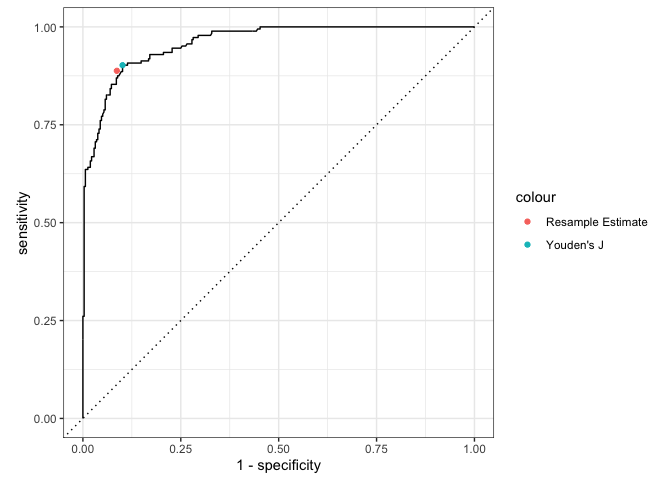
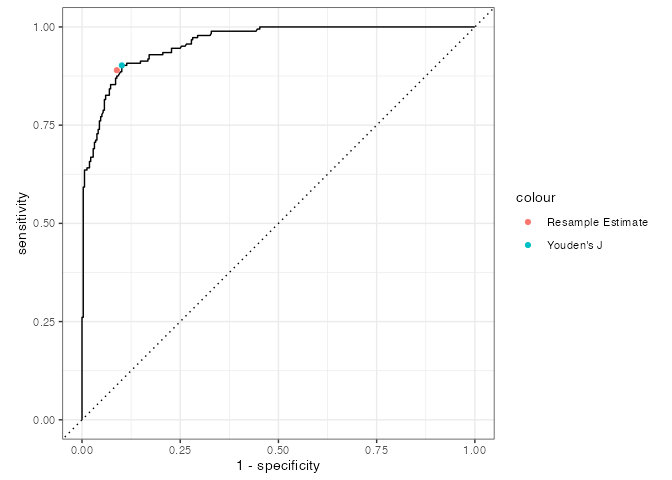
update readme

diff --git a/README.md b/README.md
@@ -1,7 +1,7 @@
 
 <!-- README.md is generated from README.Rmd. Please edit that file -->
 
-# thresholdr
+# thresholdr <a href="https://thresholdr.r-dcm.org"><img src="man/figures/logo.png" align="right" height="138" alt="thresholdr website" /></a>
 
 <!-- badges: start -->
 
@@ -38,8 +38,7 @@ threshold using `calc_youden()`:
 ``` r
 library(thresholdr)
 
-calc_youden(estimates = dcm_probs$att1$estimate,
-            truth = dcm_probs$att1$truth)
+calc_youden(estimates = dcm_probs$att1$estimate, truth = dcm_probs$att1$truth)
 #> [1] 0.3170266
 ```
 
@@ -49,10 +48,10 @@ using, for example, resampling:
 
 ``` r
 optimal_resample(estimates = dcm_probs$att1$estimate, optimal_method = "youden")
-#> # A tibble: 1 × 4
-#>   .threshold  sensitivity   specificity      j_index
-#>        <dbl>   <rvar[1d]>    <rvar[1d]>   <rvar[1d]>
-#> 1      0.381  0.89 ± 0.02  0.91 ± 0.012  0.8 ± 0.025
+#> # A tibble: 1 × 5
+#>   threshold   sensitivity   specificity      j_index        distance
+#>       <dbl>    <rvar[1d]>    <rvar[1d]>   <rvar[1d]>      <rvar[1d]>
+#> 1     0.375  0.89 ± 0.021  0.91 ± 0.012  0.8 ± 0.026  0.021 ± 0.0055
 ```
 
 This results in a threshold that is similar, although slightly higher,
@@ -61,4 +60,4 @@ visualize our estimate on an ROC curve. Here again we see that our
 estimated optimal threshold from the resamples are very close to the
 true value.
 
-<img src="man/figures/README-unnamed-chunk-3-1.png" width="100%" />
+<img src="man/figures/README-unnamed-chunk-3-1.png" alt="" width="100%" />
